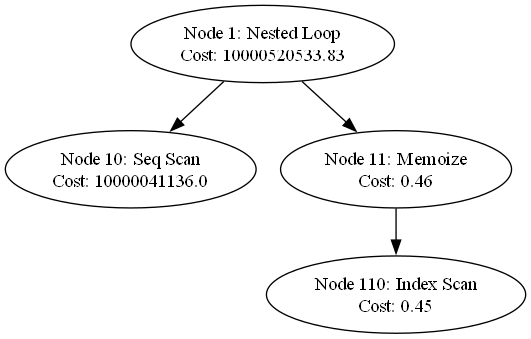
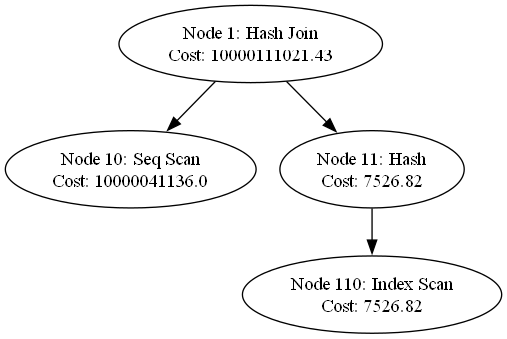
Reverted back to simple scans & joins

diff --git a/interface.py b/interface.py
@@ -405,23 +405,14 @@ class QEPInterface(QWidget):
             if "Scan" in node_type:  # If it's a scan node
                 force_index = QAction("Force Index Scan", self)
                 force_seq = QAction("Force Sequential Scan", self)
-                force_bitmap_index = QAction("Force Bitmap Index Scan", self)
-                force_bitmap_heap = QAction("Force Bitmap Heap Scan", self)
-                force_index_only = QAction("Force Index Only Scan", self)
 
                 # Connect actions to modify_node
                 force_index.triggered.connect(lambda: self.modify_node(item, "Index Scan"))
                 force_seq.triggered.connect(lambda: self.modify_node(item, "Seq Scan"))
-                force_bitmap_index.triggered.connect(lambda: self.modify_node(item, "Bitmap Index Scan"))
-                force_bitmap_heap.triggered.connect(lambda: self.modify_node(item, "Bitmap Heap Scan"))
-                force_index_only.triggered.connect(lambda: self.modify_node(item, "Index Only Scan"))
 
                 # Add actions for scan types
                 menu.addAction(force_index)
                 menu.addAction(force_seq)
-                menu.addAction(force_bitmap_index)
-                menu.addAction(force_bitmap_heap)
-                menu.addAction(force_index_only)
 
             elif "Join" in node_type:  # If it's a join node
                 force_hash = QAction("Force Hash Join", self)
@@ -440,7 +431,6 @@ class QEPInterface(QWidget):
 
             # Show the menu
             menu.exec(self.qep_tree.viewport().mapToGlobal(position))
-
 
 
 
